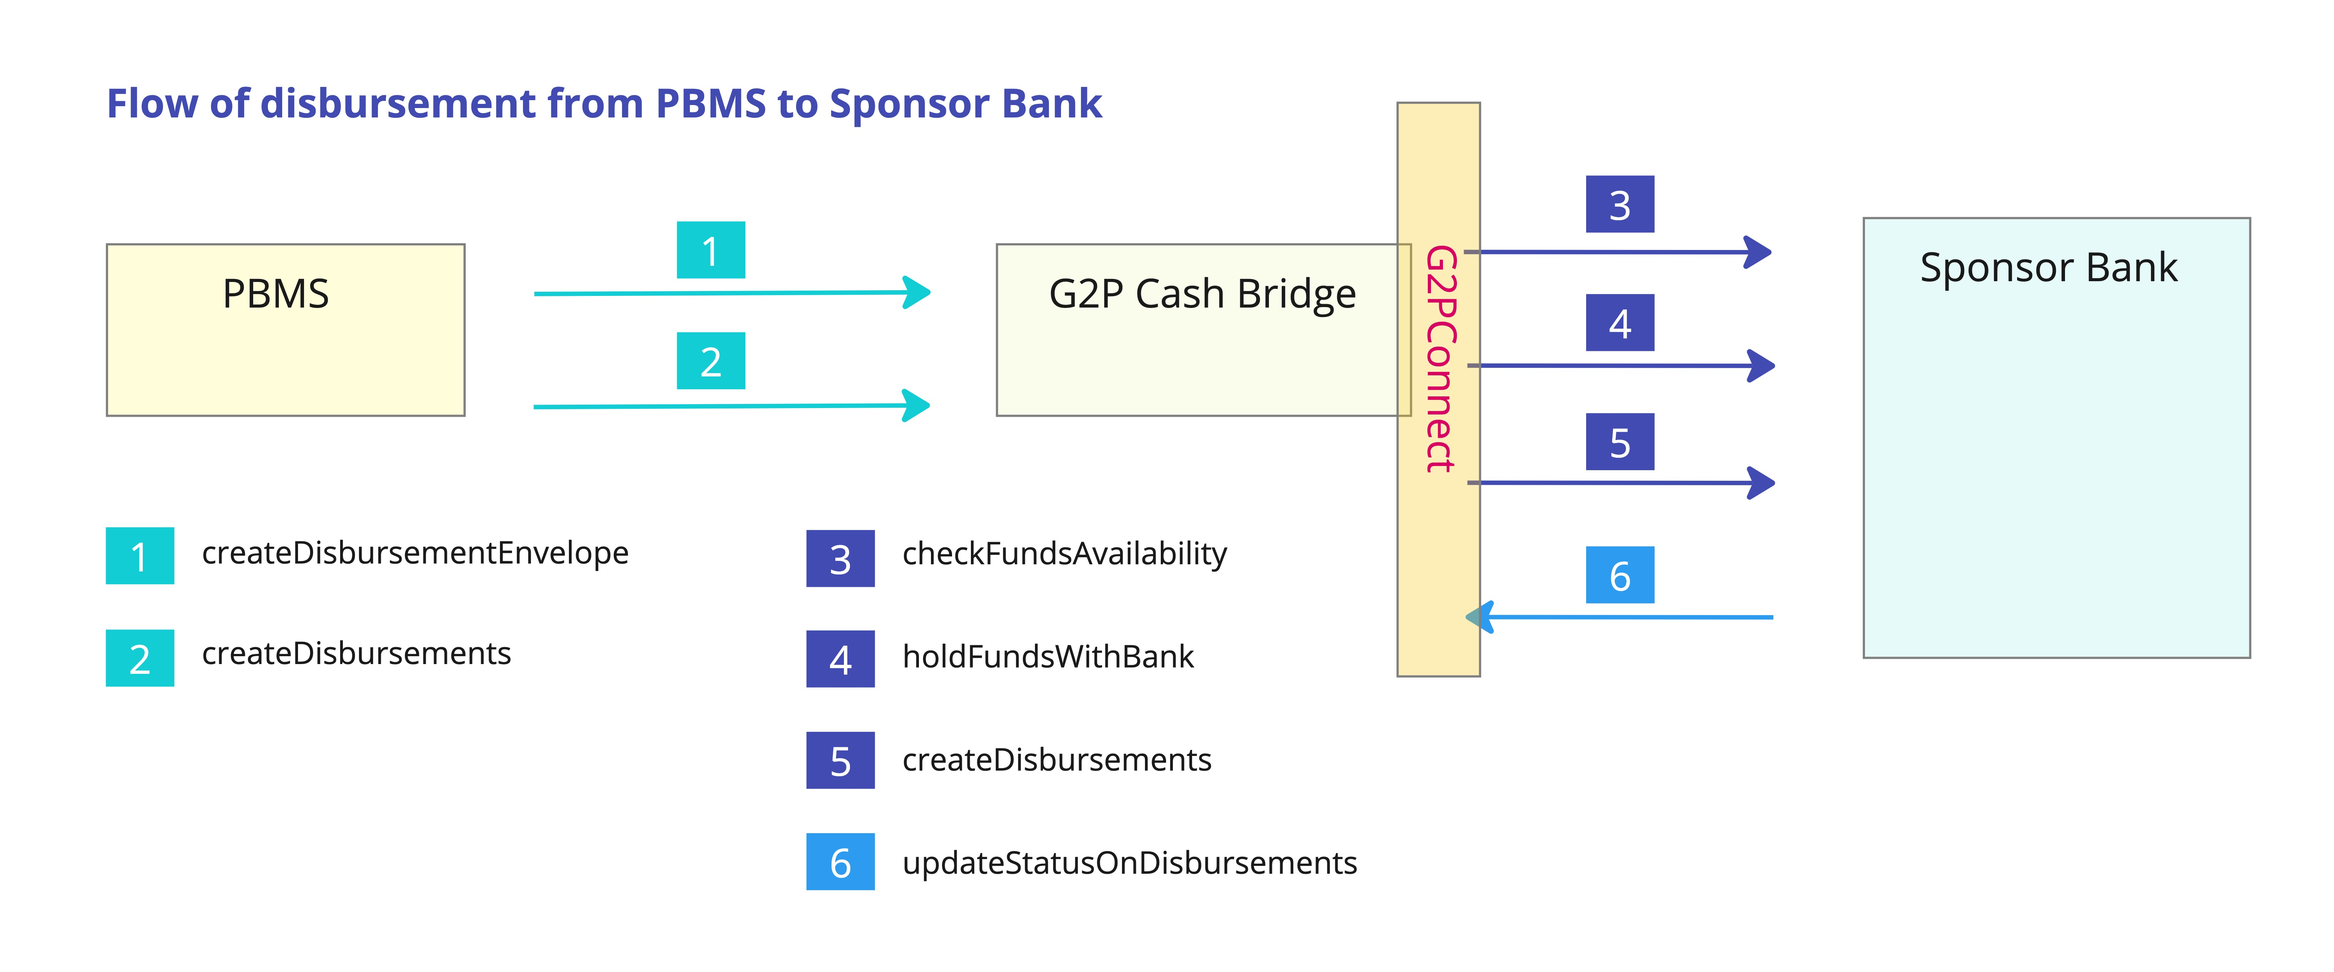
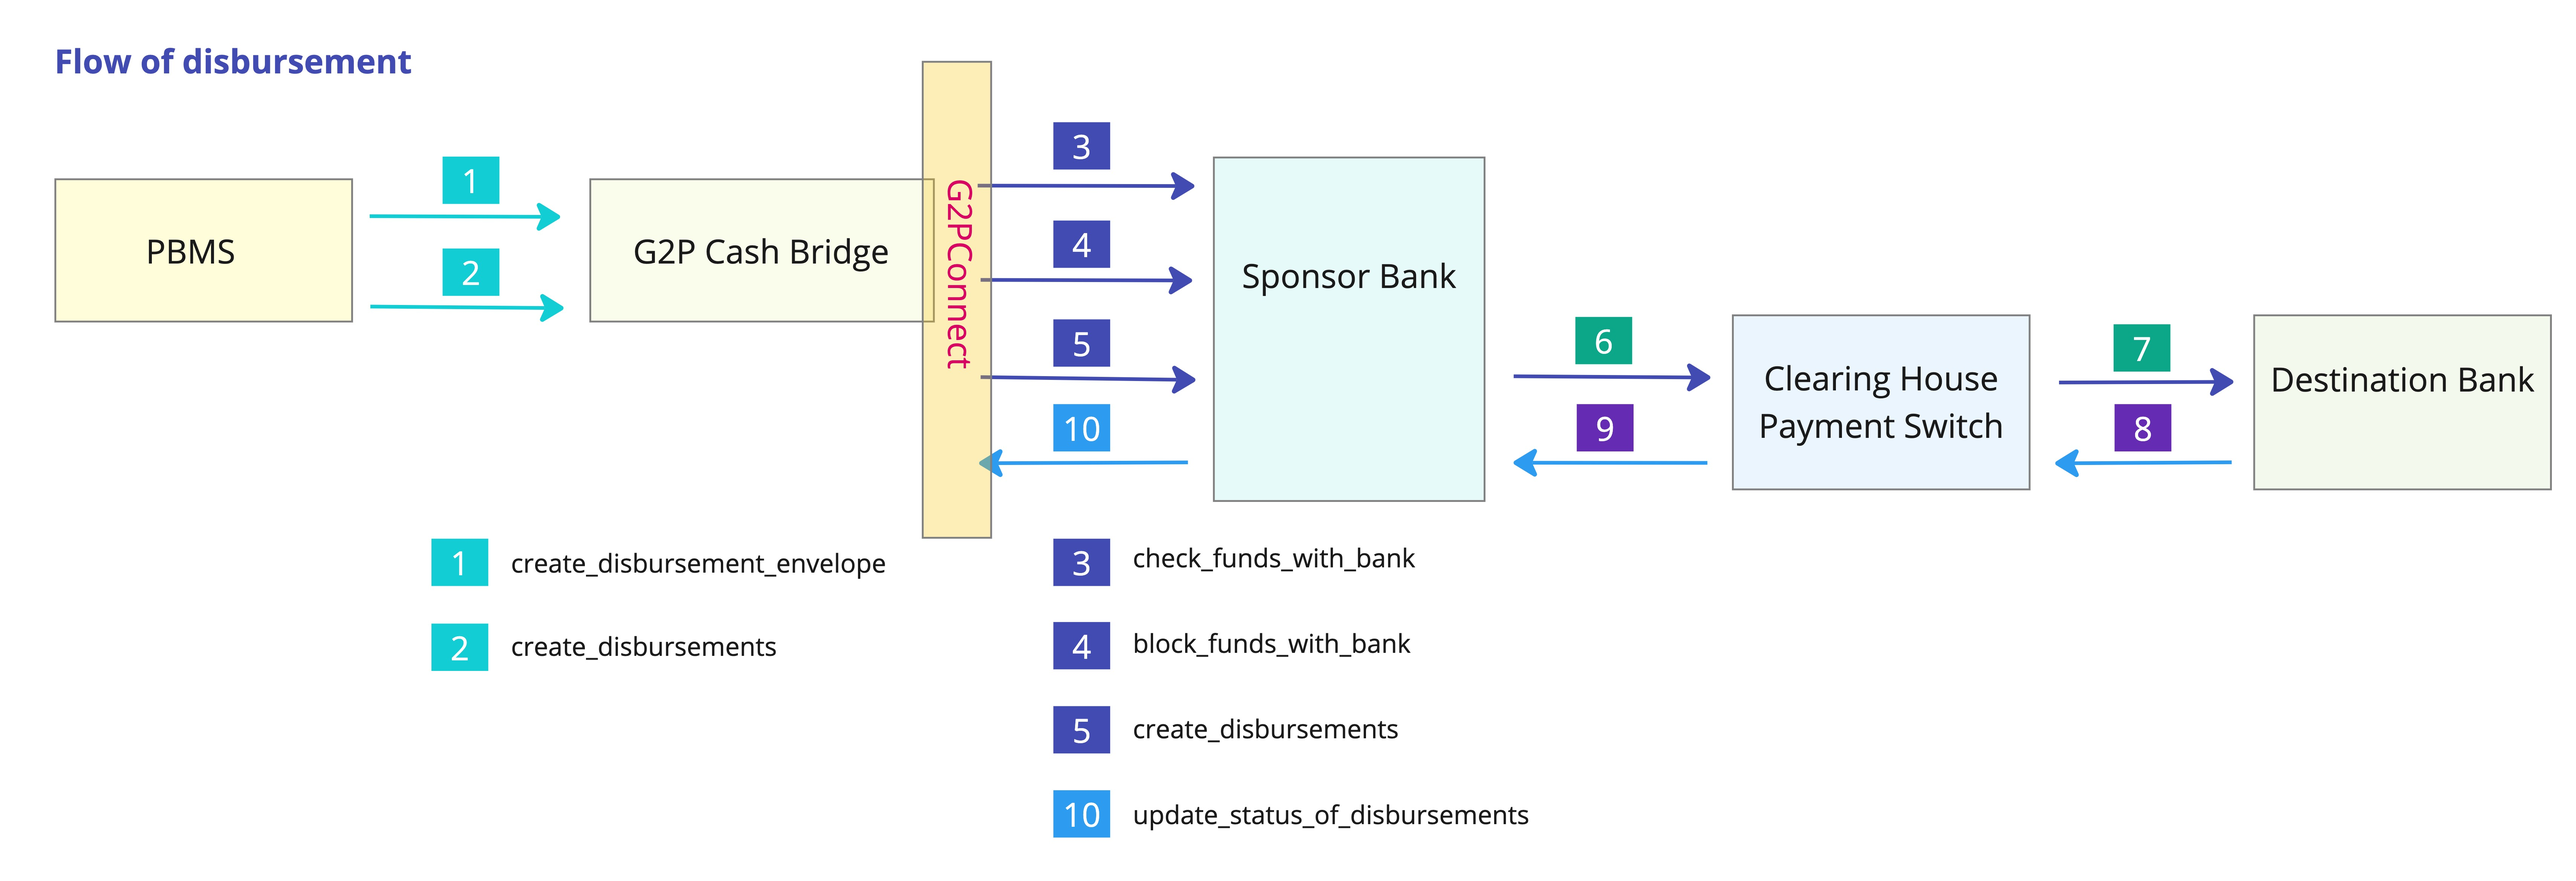
GITBOOK-288: No subject

Changed region(s): [[0.0, 0.0624, 0.9969, 0.9671]]

diff --git a/g2p-cash-transfer-bridge/development/design-specifications/README.md b/g2p-cash-transfer-bridge/development/design-specifications/README.md
@@ -18,4 +18,31 @@ layout:
 
 <figure><img src="../../../.gitbook/assets/Gitbook-G2PCB-Flow.jpg" alt=""><figcaption><p>Flow of information in the G2P Cash Bridge subsystem</p></figcaption></figure>
 
+### Inward APIs - from PBMS
+
+createDisbursementEnvelope - creates a disbursement envelope object and persists this object in the table - 'disbursement\_envelope'. As an object, a disbursement\_envelope, represents an instance of a wrapper object, an envelope of sorts, that contains all the disbursements that need to be effected for a benefit program for a disbursement cycle. Depending on the nature of the benefit program, a disbursement\_envelope can potentially contain 100s of 1000s of disbursements. Each envelope is identified by a unique disbursement\_envelope\_id.
+
+createDisbursement - creates a disbursement object and persists this object in the table - 'disbursement'. As an object, a disbursement represents a single disbursement transaction under a disbursement\_envelope. Each disbursement is identified by a unique disbursement\_id.
+
+### Outward APIs - to Sponsor bank
+
+<mark style="color:blue;">**checkFundsAvailability**</mark> - is the first step in the lifecycle processing of a disbursement\_envelope. Once the disbursement\_envelope is ready for processing, the system checks for available funds in the bank account with the Sponsor bank. Since we will need specific connectors for connecting to banks, these APIs have been abstracted to an interface and bank specific connectors that implement these interfaces. This API is triggered by a batch job - 'check\_funds\_with\_bank'
+
+<mark style="color:blue;">**block\_funds\_wih\_bank**</mark> - is the second step in the disbursement\_envelope's lifecycle. Once the first step confirms availability of funds, the system invokes this API to block the funds in the funding account. If the block is successful, the sponsor bank will return a reference number for that block. All subsequent disbursements will result in release of funds under this block reference number.
+
+<mark style="color:blue;">**create\_disbursements**</mark> - is the third step in the disbursement\_envelope's lifecycle. Multiple disbursements for a given envelope are batched together in a single API call. Given the nature of transaction&#x20;
+
+1. the downstream clearing / payment switch will have to split the disbursements into multiple batches based on destination bank - depending on the arrangement with the switch
+2. the sponsor bank might have a float period before it dispatches the disbursements into the payment switch
+3. the actual success/failure of the disbursement transactions can be known only after the destination banks (destination banks are banks that service the ultimate beneficiary) process these disbursements
+4. the destination banks might have a float period too
+
+this API has been designed for an asynchronous mode. This API only expects an acknowledgement from the Sponsor bank. The actual feedback of success/failure is designed to be an inward API call from the sponsor bank.
+
+### Inward APIs - from Sponsor bank
+
+<mark style="color:blue;">**update\_status\_of\_disbursements**</mark> - As and when the sponsor bank receives status from the destination banks, the sponsor bank invokes this api and updates the status of the disbursement transactions.
+
+
+
 Detailed notes on Objects and Tables - follows in the next few sections
